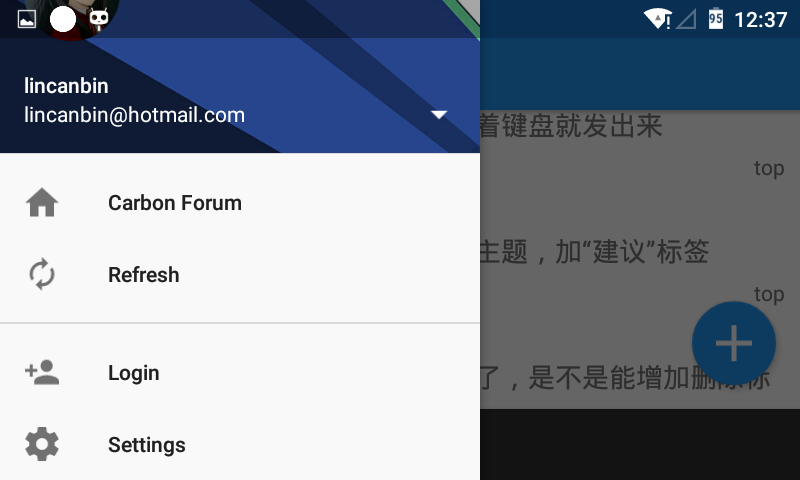
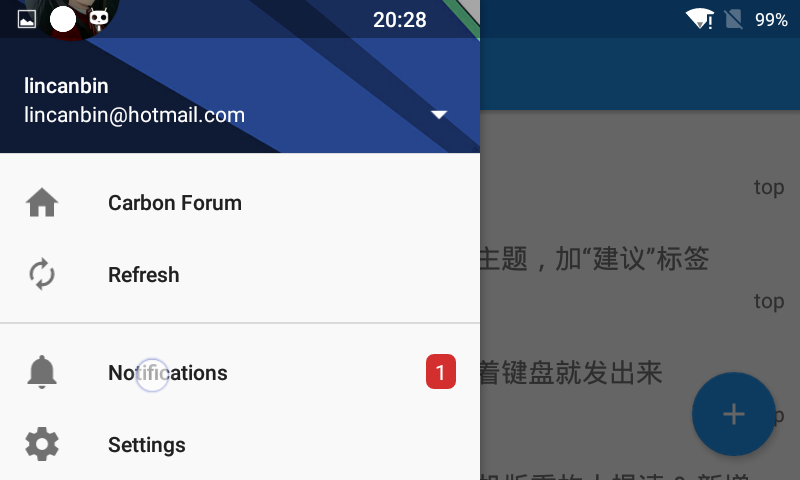
Update Screenshot.

diff --git a/README.md b/README.md
@@ -3,7 +3,6 @@ Android-Carbon-Forum    [![Build Status](https://travis-ci.org/lincanbin/Android
 Android Client for Carbon Forum with Material Design.
 
 
-
 Requirements
 ------------
 * Android Studio version 1.4 or higher.
@@ -12,9 +11,9 @@ Requirements
 Build your Carbon Forum android client
 ------------
 1. Rename the package name form ```com.lincanbin.carbonforum``` to ```com.yourname.carbonforum```.
-2. Edit domain configuration in ```config/APIAddress.java```
-3. Edit ```app_name``` in ```res/values/string.xml```. (Optional).
-4. Modify the icon ```ic_launcher.png``` as you like. (Optional)
+2. Edit configuration of domain, API key and API secret in ```config/APIAddress.java```.
+3. Edit ```app_name``` in ```res/values/string.xml``` (Optional).
+4. Modify the icon ```ic_launcher.png``` as you like (Optional).
 5. Build and enjoy it.
 
 
@@ -26,9 +25,15 @@ Features
 Screenshot
 ------------
 
-![Main](https://raw.githubusercontent.com/lincanbin/Android-Carbon-Forum/master/screenshot/Screenshot_2015-10-16-00-36-59.png) ![Topic](https://raw.githubusercontent.com/lincanbin/Android-Carbon-Forum/master/screenshot/Screenshot_2015-10-16-00-41-33.png)
+![Main](https://raw.githubusercontent.com/lincanbin/Android-Carbon-Forum/master/screenshot/Screenshot_2015-10-16-00-36-59.png)
+
+![Topic](https://raw.githubusercontent.com/lincanbin/Android-Carbon-Forum/master/screenshot/Screenshot_2015-10-16-00-41-33.png)
+
+![New](https://raw.githubusercontent.com/lincanbin/Android-Carbon-Forum/master/screenshot/Screenshot_2015-11-10-20-38-12.png)
 
 ![Login](https://raw.githubusercontent.com/lincanbin/Android-Carbon-Forum/master/screenshot/Screenshot_2015-10-16-00-39-40.png) ![Settings](https://raw.githubusercontent.com/lincanbin/Android-Carbon-Forum/master/screenshot/Screenshot_2015-10-16-00-39-51.png)
+
+![Notifications](https://raw.githubusercontent.com/lincanbin/Android-Carbon-Forum/master/screenshot/Screenshot_2015-11-12-00-35-02.png)
 
 ![Push_Service](https://raw.githubusercontent.com/lincanbin/Android-Carbon-Forum/master/screenshot/Screenshot_2015-10-16-00-42-58.png)
 
